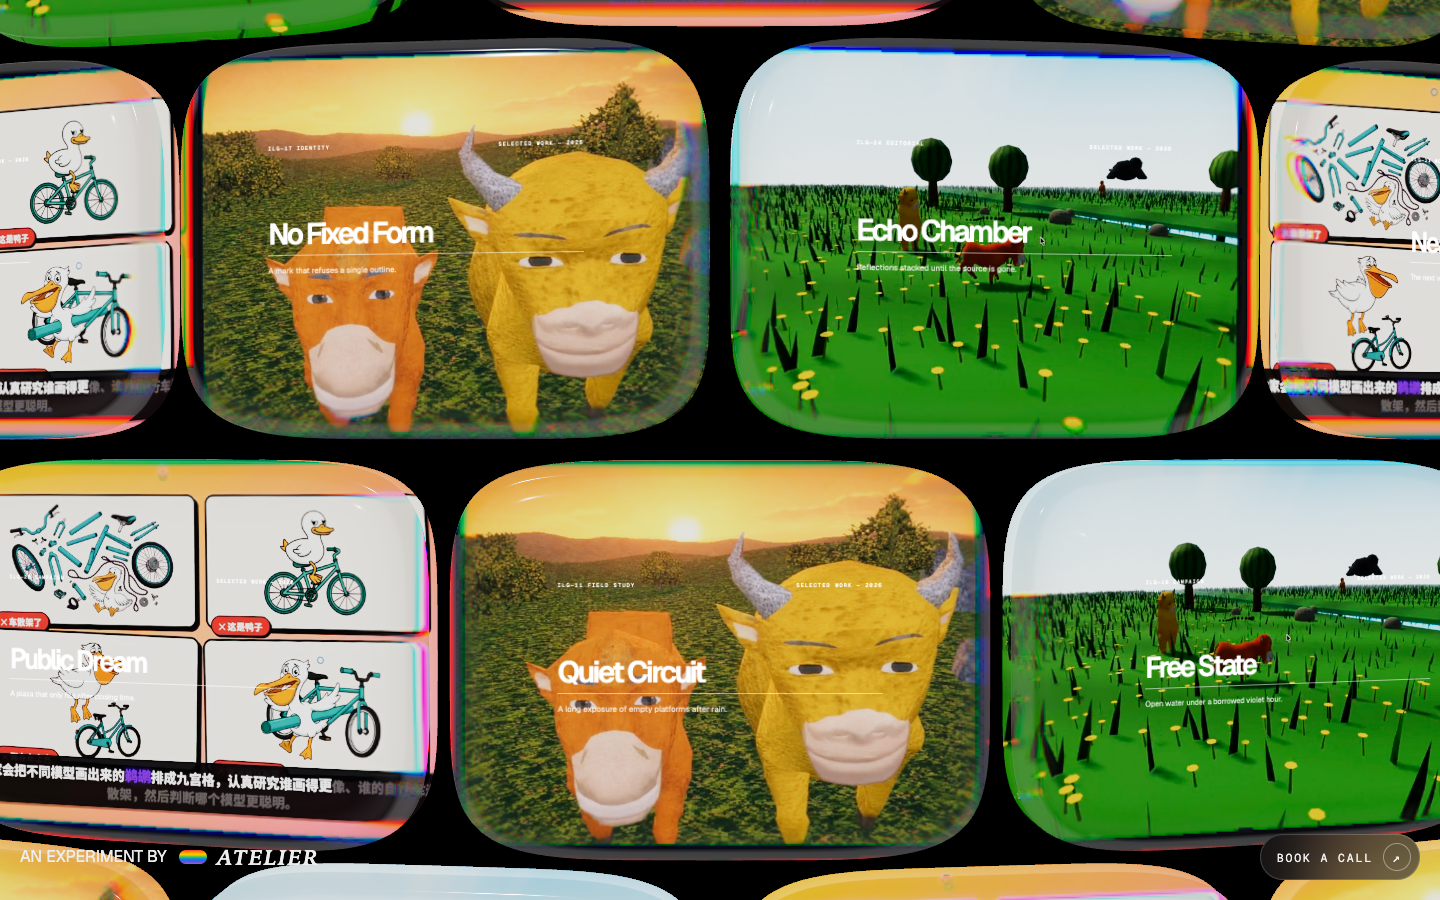
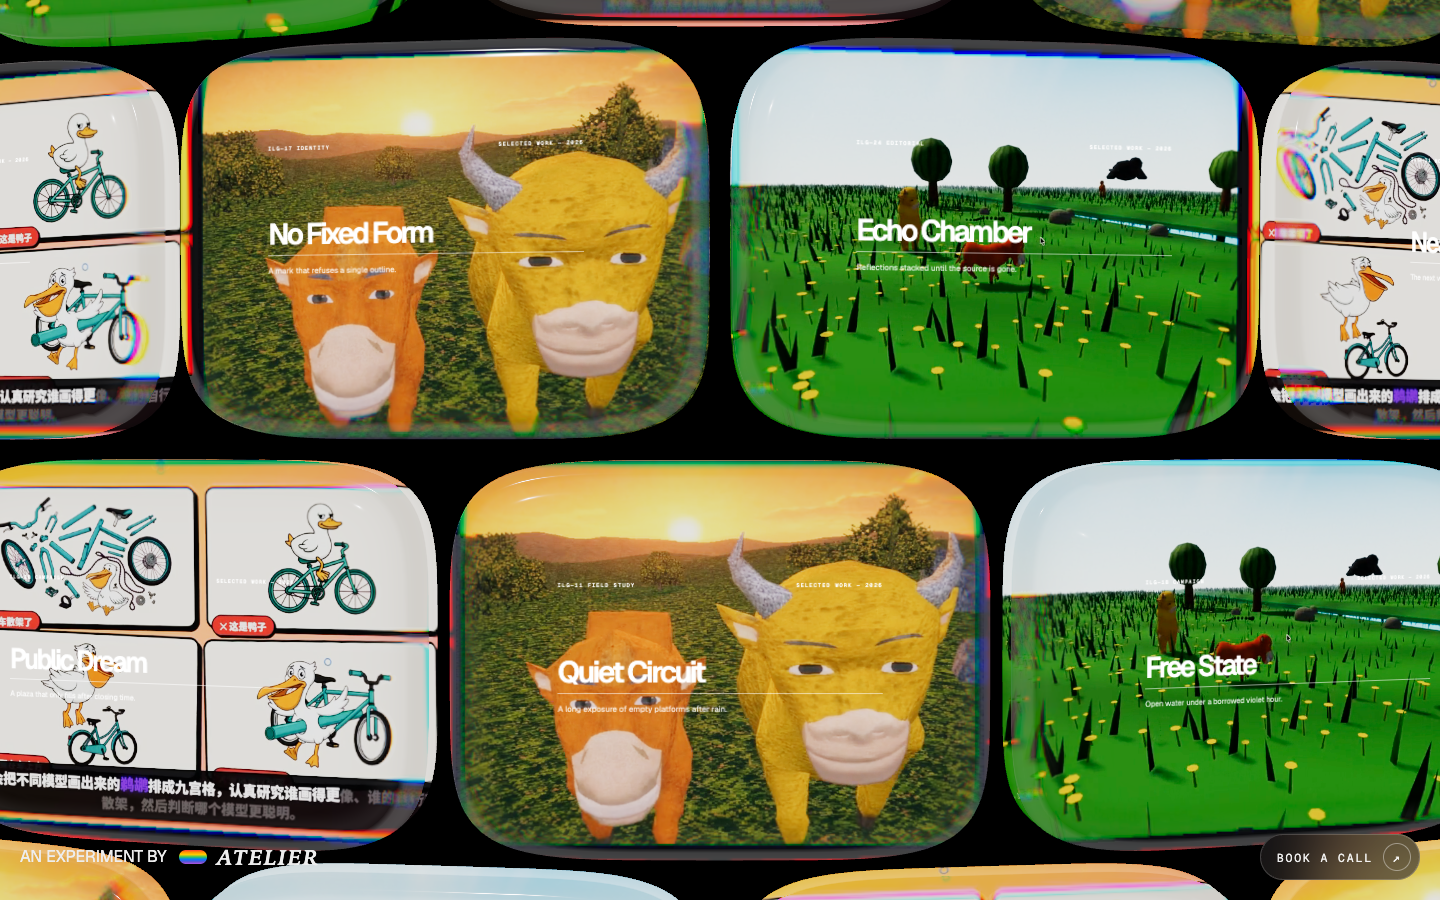
v5-f1-media-focus
Applies the media focus product review approved on 2026-08-20.

  NL-01 牛来开场     focusX 0.50  focusY 0.50  zoom 1.00   (unchanged)
  NL-02 Cursor 牛来  focusX 0.50  focusY 0.50  zoom 1.00   (unchanged)
  NL-03 鹈鹕测 AI    focusX 0.50  focusY 0.46  zoom 1.06   (changed)

zoom 1.06 is KEPT, not rolled back. The brief's fallback was conditional on
obvious extra blur or side effects, and there are none:

- It cannot cause magnification blur. The texture stays MINIFIED at 1.275
  source pixels per card pixel (down from 1.351); magnification blur needs that
  ratio below 1.0. Less aggressive minification through a LinearFilter,
  no-mipmap texture is marginally cleaner, not softer.
- Measured on the same face-on card (cell -1,0 centred, media-only, media frozen
  and byte-identical between runs) against an ideal LANCZOS resample of the
  exact decoded frame: high-frequency fidelity 1.021 at zoom 1.00 vs 0.959 at
  zoom 1.06. A 6% relative difference, below any visible threshold.
- Aspect preservation is unaffected: 4.2e-14% analytically, and the rendered
  calibration probe is unchanged at 0.391% (DPR2, limit 0.5%).

The other two clips are byte-identical before and after, which is the control:
the NL-01 card measured 0.00% change on every sharpness metric.

Evidence regenerated: crop previews, media-fit sheet, calibration and clip
captures at DPR1 and DPR2.

diff --git a/src/content/VideoClips.ts b/src/content/VideoClips.ts
@@ -36,9 +36,12 @@ export const CLIPS = [
     title: "鹈鹕测 AI",
     deck: "无 BGM 版，从 15 秒起截取 5 秒。",
     accent: "#ff9ad5",
+    // Product review, 2026-08-20: nudge the crop up slightly and tighten it.
+    // zoom 1.06 still MINIFIES the source (1.275 source px per card px, down
+    // from 1.351), so it cannot introduce magnification blur.
     focusX: 0.5,
-    focusY: 0.5,
-    zoom: 1,
+    focusY: 0.46,
+    zoom: 1.06,
   },
 ] as const;
 

diff --git a/docs/v5/FOUNDATION_FIT.md b/docs/v5/FOUNDATION_FIT.md
@@ -90,8 +90,24 @@ matrix (`repeat`/`offset`), which the media plane's `MeshBasicMaterial` applies.
 `stretch` is the pre-V5 behaviour, kept so a capture can show what was fixed.
 
 All three sources are 16:9-ish (960×540, 960×556, 960×540) against a 1.351 card,
-so cover keeps full height and crops left/right to 76.0% / 78.2% / 76.0% of the
-source width. Per-clip `focusX` / `focusY` / `zoom` live on `CLIPS`.
+so cover keeps full height and crops left/right. Per-clip `focusX` / `focusY` /
+`zoom` live on `CLIPS`. Product review set them on 2026-08-20:
+
+| Clip | focusX | focusY | zoom | visible source | source px per card px |
+| --- | --- | --- | --- | --- | --- |
+| NL-01 牛来开场 | 0.50 | 0.50 | 1.00 | 76.0% × 100% | 1.351 |
+| NL-02 Cursor 牛来 | 0.50 | 0.50 | 1.00 | 78.2% × 100% | 1.391 |
+| NL-03 鹈鹕测 AI | 0.50 | 0.46 | 1.06 | 71.7% × 94.3% | 1.275 |
+
+NL-03's `zoom: 1.06` was checked for the blur the product brief warned about and
+**kept**. It cannot introduce magnification blur: the texture is still minified
+(1.275 source pixels per card pixel, down from 1.351 — both above 1.0), so the
+sampler never has to invent detail, and less aggressive minification through a
+`LinearFilter`, no-mipmap texture is if anything cleaner. Measured against an
+ideal LANCZOS resample of the exact decoded frame, on the same face-on card
+(cell −1,0 centred), high-frequency fidelity is 1.021 at zoom 1.00 and 0.959 at
+zoom 1.06 — a 6% relative difference, far below anything visible. Aspect stays
+exact at 4.2e-14%.
 
 `?mediacal=1` swaps the clips for a 960×540 calibration canvas (circles, squares,
 edge markers) so the same fit maths can be checked against a known shape.
